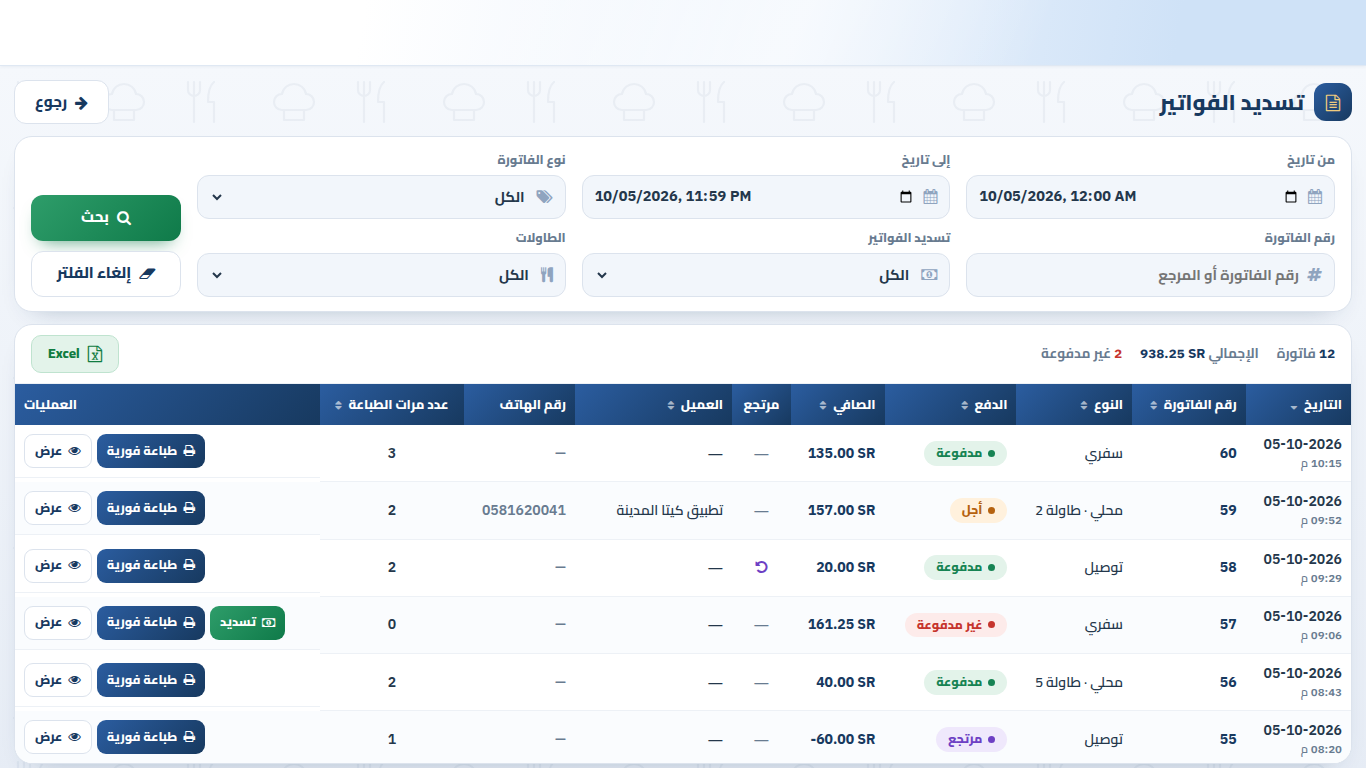
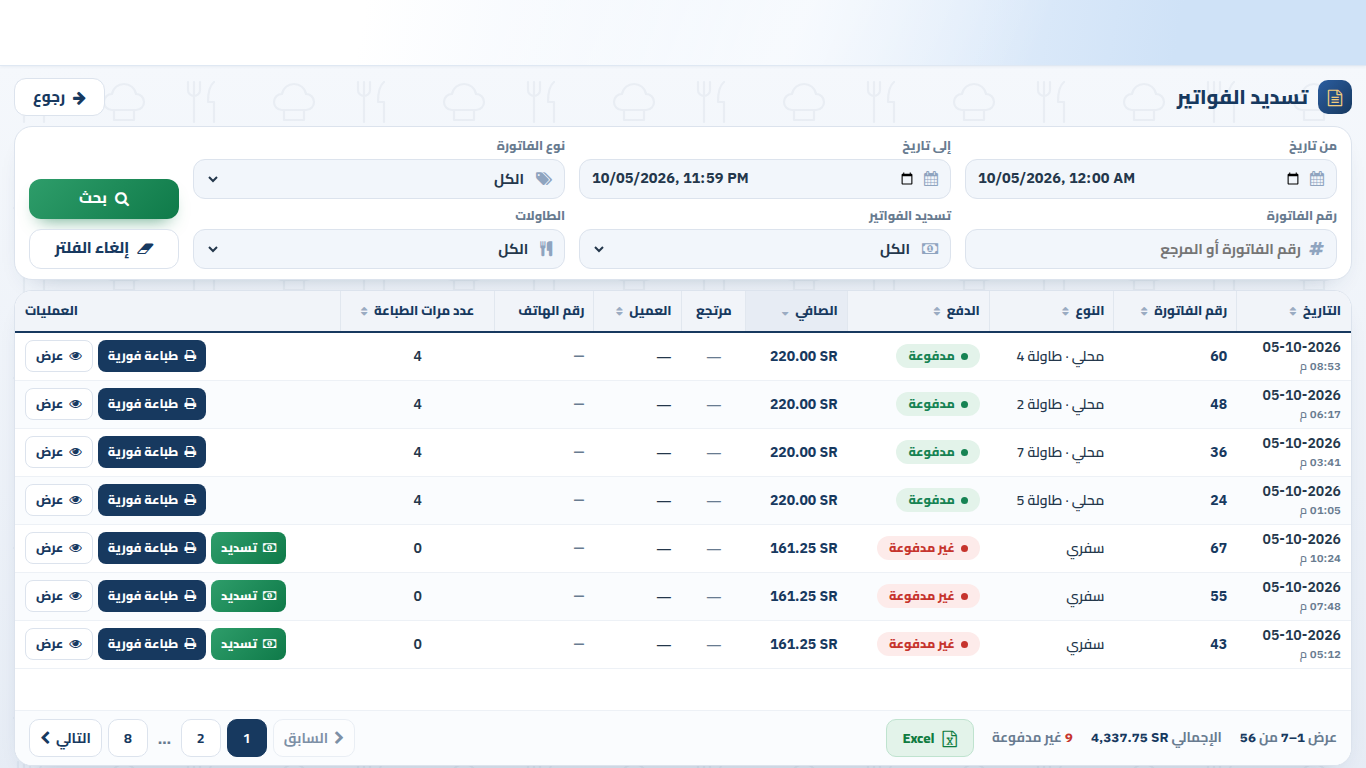
تسديد الفواتير: formal table header, pages that fit the screen
- Header: one flat light-grey band with a navy rule under it and navy
  text, instead of a gradient painted per cell (it read as stripes).
  Print button flat navy to match.
- Paging instead of a scrolling list: the page size is however many
  48px rows fit the table's space, measured on mount and on resize
  (ResizeObserver) — 7 rows on a 1366x768 till, 13 on 1920x1080, 6 on
  1024. Pager: previous / first, last and neighbours with gaps / next,
  "عرض 1–7 من 56". Search and sort go back to page 1; Excel still
  exports every loaded row.
- The count / total / Excel bar moves into the pager footer and the
  header and filters are tightened, so more rows fit per page.
- Row actions sit in an inner flex wrapper so the cell stays a table
  cell and buttons keep their spacing.

Claude-Session: https://claude.ai/code/session_01Lnz3E3QEWwCq9W3i1o8rQR

diff --git a/addons/hosny_pos_payment/static/src/css/invoices_screen.css b/addons/hosny_pos_payment/static/src/css/invoices_screen.css
@@ -7,6 +7,7 @@
    ===================================================================== */
 
 :is(#hs,.pos) .hi-screen {
+    /* layout is compact on purpose: every row saved is a row per page */
     --hi-navy-a: #2B5DA0;
     --hi-navy-b: #17395F;
     --hi-ink: #17395F;
@@ -21,9 +22,9 @@
     --hi-font: "Cairo", "IBM Plex Sans Arabic", system-ui, sans-serif;
 
     /*rtl:ignore*/direction: rtl;
-    display: flex; flex-direction: column; gap: 12px;
+    display: flex; flex-direction: column; gap: 10px;
     block-size: 100%;
-    padding: 14px;
+    padding: 12px 14px;
     overflow: hidden;
     color: var(--hi-text);
     font-family: var(--hi-font);
@@ -50,15 +51,15 @@
 
 /* ── الرأس ── */
 :is(#hs,.pos) .hi-head { display: flex; align-items: center; justify-content: space-between; gap: 12px; }
-:is(#hs,.pos) .hi-head h1 { margin: 0; display: flex; align-items: center; gap: 10px; font-size: 22px; font-weight: 800; color: var(--hi-ink); }
+:is(#hs,.pos) .hi-head h1 { margin: 0; display: flex; align-items: center; gap: 10px; font-size: 20px; font-weight: 800; color: var(--hi-ink); }
 :is(#hs,.pos) .hi-head h1 .fa {
-    display: grid; place-items: center; inline-size: 38px; block-size: 38px; border-radius: 12px;
+    display: grid; place-items: center; inline-size: 34px; block-size: 34px; border-radius: 10px;
     font-size: 17px; color: var(--hi-gold);
     /*rtl:ignore*/background: linear-gradient(135deg, var(--hi-navy-a), var(--hi-navy-b));
 }
 :is(#hs,.pos) .hi-back {
     display: inline-flex; align-items: center; gap: 8px;
-    min-block-size: 44px; padding: 0 20px !important;
+    min-block-size: 38px; padding: 0 18px !important;
     border: 1px solid var(--hi-line) !important; border-radius: 12px !important;
     background: #FFFFFF !important; color: var(--hi-ink) !important; box-shadow: none !important;
     font-size: 15px !important; font-weight: 800 !important;
@@ -70,15 +71,15 @@
     display: grid;
     grid-template-columns: repeat(3, minmax(0, 1fr)) auto;
     grid-template-rows: auto auto;
-    gap: 10px 16px;
+    gap: 8px 14px;
     margin: 0;
-    padding: 14px 16px;
+    padding: 10px 14px;
 }
-:is(#hs,.pos) .hi-field { display: flex; flex-direction: column; gap: 5px; margin: 0; min-width: 0; }
+:is(#hs,.pos) .hi-field { display: flex; flex-direction: column; gap: 3px; margin: 0; min-width: 0; }
 :is(#hs,.pos) .hi-field > span { font-size: 12.5px; font-weight: 800; color: var(--hi-muted); }
 :is(#hs,.pos) .hi-input {
     display: flex; align-items: center; gap: 8px;
-    min-block-size: 44px;
+    min-block-size: 40px;
     padding: 0 12px;
     border: 1px solid var(--hi-line);
     border-radius: 12px;
@@ -90,7 +91,7 @@
 :is(#hs,.pos) .hi-input input,
 :is(#hs,.pos) .hi-input select {
     flex: 1 1 auto; min-width: 0;
-    block-size: 42px;
+    block-size: 38px;
     padding: 0 !important;
     border: 0 !important; outline: 0 !important; box-shadow: none !important;
     background: transparent !important;
@@ -105,7 +106,7 @@
 }
 :is(#hs,.pos) .hi-btn {
     display: flex; align-items: center; justify-content: center; gap: 8px;
-    min-block-size: 46px;
+    min-block-size: 40px;
     border: 0 !important; border-radius: 12px !important;
     color: #FFFFFF !important;
     font-size: 15px !important; font-weight: 800 !important;
@@ -139,19 +140,25 @@
     font-size: 14px !important; font-weight: 800 !important;
 }
 :is(#hs,.pos) .hi-excel .fa { font-size: 17px; }
-:is(#hs,.pos) .hi-table-wrap { flex: 1 1 auto; overflow: auto; min-block-size: 0; position: relative; }
+:is(#hs,.pos) .hi-table-wrap { flex: 1 1 auto; overflow-x: auto; overflow-y: hidden; min-block-size: 0; position: relative; }
+:is(#hs,.pos) .hi-table tbody tr { block-size: 48px; }
 :is(#hs,.pos) .hi-table { inline-size: 100%; border-collapse: separate; border-spacing: 0; font-size: 14px; }
 :is(#hs,.pos) .hi-table thead th {
     position: sticky; inset-block-start: 0; z-index: 1;
-    padding: 11px 9px;
-    /*rtl:ignore*/background: linear-gradient(135deg, var(--hi-navy-a), var(--hi-navy-b));
-    color: #FFFFFF;
+    padding: 0 10px;
+    block-size: 42px;
+    background: #F1F4F9;
+    border-bottom: 2px solid var(--hi-navy-b);
+    color: var(--hi-ink);
     font-size: 13px; font-weight: 800; text-align: start; white-space: nowrap;
     cursor: pointer; user-select: none;
 }
-:is(#hs,.pos) .hi-table thead th .fa { margin-inline-start: 4px; font-size: 11px; opacity: .6; }
+:is(#hs,.pos) .hi-table thead th .fa { margin-inline-start: 4px; font-size: 11px; color: #9AABC2; }
+:is(#hs,.pos) .hi-table thead th:hover { background: #E7ECF4; }
+:is(#hs,.pos) .hi-table thead th + th { box-shadow: inset -1px 0 0 #E1E7EF; }
 :is(#hs,.pos) .hi-table tbody td {
-    padding: 9px 9px;
+    block-size: 48px;
+    padding: 0 10px;
     border-bottom: 1px solid #EDF1F6;
     color: var(--hi-text); font-weight: 600;
     white-space: nowrap; vertical-align: middle;
@@ -165,7 +172,7 @@
 :is(#hs,.pos) .hi-table .is-center { text-align: center; }
 :is(#hs,.pos) .hi-table .is-clip { max-inline-size: 150px; overflow: hidden; text-overflow: ellipsis; }
 :is(#hs,.pos) .hi-table .is-ops { text-align: end; }
-:is(#hs,.pos) .hi-table td.is-ops { display: flex; justify-content: flex-end; gap: 5px; }
+:is(#hs,.pos) .hi-ops { display: flex; align-items: center; justify-content: flex-end; gap: 5px; }
 /* below 1500px the time folds under the date */
 :is(#hs,.pos) .hi-date-time { display: none; font-size: 11.5px; color: var(--hi-muted); }
 @media (max-width: 1500px) {
@@ -191,14 +198,12 @@
 :is(#hs,.pos) .hi-refunded { color: #6D3FC4; }
 :is(#hs,.pos) .hi-op {
     display: inline-flex; align-items: center; gap: 6px;
-    min-block-size: 34px; padding: 0 10px !important;
-    border: 0 !important; border-radius: 9px !important;
+    block-size: 32px; min-block-size: 32px; padding: 0 10px !important;
+    border: 0 !important; border-radius: 8px !important;
     color: #FFFFFF !important; box-shadow: none !important;
     font-size: 12.5px !important; font-weight: 800 !important; white-space: nowrap;
 }
-:is(#hs,.pos) .hi-op.is-print, :is(#hs,.pos) .hi-op.is-view {
-    /*rtl:ignore*/background: linear-gradient(135deg, var(--hi-navy-a), var(--hi-navy-b)) !important;
-}
+:is(#hs,.pos) .hi-op.is-print { background: var(--hi-navy-b) !important; }
 :is(#hs,.pos) .hi-op.is-view { background: #FFFFFF !important; color: var(--hi-ink) !important; border: 1px solid var(--hi-line) !important; }
 :is(#hs,.pos) .hi-op.is-pay {
     /*rtl:ignore*/background: linear-gradient(135deg, var(--hi-mint-a), var(--hi-mint-b)) !important;
@@ -210,6 +215,31 @@
     font-size: 15px; font-weight: 700; color: var(--hi-muted);
 }
 :is(#hs,.pos) .hi-empty .fa { font-size: 34px; color: #B9C7D8; }
+
+:is(#hs,.pos) .hi-pager {
+    display: flex; align-items: center; justify-content: space-between; gap: 12px;
+    flex-wrap: wrap;
+    padding: 8px 14px;
+    border-top: 1px solid #EDF1F6;
+    background: #FAFCFE;
+}
+:is(#hs,.pos) .hi-pager-info { font-size: 13.5px; font-weight: 700; color: var(--hi-muted); }
+:is(#hs,.pos) .hi-pager-info b { font-family: var(--hi-num); color: var(--hi-ink); }
+:is(#hs,.pos) .hi-pager-nav { display: flex; align-items: center; gap: 6px; }
+:is(#hs,.pos) .hi-page {
+    min-inline-size: 40px; min-block-size: 38px;
+    padding: 0 10px !important;
+    border: 1px solid var(--hi-line) !important; border-radius: 10px !important;
+    background: #FFFFFF !important; color: var(--hi-ink) !important; box-shadow: none !important;
+    font-family: var(--hi-num) !important; font-size: 14px !important; font-weight: 700 !important;
+}
+:is(#hs,.pos) .hi-page.is-arrow { font-family: var(--hi-font) !important; display: inline-flex; align-items: center; gap: 6px; }
+:is(#hs,.pos) .hi-page:hover:not(:disabled) { background: var(--hi-soft) !important; }
+:is(#hs,.pos) .hi-page.is-current {
+    border-color: var(--hi-navy-b) !important;
+    background: var(--hi-navy-b) !important; color: #FFFFFF !important;
+}
+:is(#hs,.pos) .hi-page-gap { padding: 0 4px; color: var(--hi-muted); font-weight: 800; }
 
 @media (max-width: 1180px) {
     :is(#hs,.pos) .hi-filters { grid-template-columns: repeat(3, minmax(0, 1fr)); grid-template-rows: none; }

diff --git a/addons/hosny_pos_payment/static/src/js/invoices_screen.js b/addons/hosny_pos_payment/static/src/js/invoices_screen.js
@@ -9,7 +9,7 @@
  * العمليات تحمّل الطلب من الخادم بنفس طريقة شاشة الطلبات في أودو
  * (loadServerOrders)، إلا إن كان مفتوحاً على هذا الجهاز فيُستخدم كما هو.
  */
-import { onMounted, useState } from "@odoo/owl";
+import { onMounted, onWillUnmount, useRef, useState } from "@odoo/owl";
 import { patch } from "@web/core/utils/patch";
 import { deserializeDateTime, serializeDateTime } from "@web/core/l10n/dates";
 import { HosnyPaymentOrdersScreen } from "@hosny_pos_controls/js/payment_orders_screen";
@@ -58,8 +58,22 @@ patch(HosnyPaymentOrdersScreen.prototype, {
             loading: false,
             busyId: null,
             sort: { key: "date", desc: true },
+            page: 1,
+            pageSize: 10,
         });
-        onMounted(() => this.invSearch());
+        // صفحة الجدول = ما يتسع له مكانه بلا تمرير، ويُعاد حسابها مع تغيّر الحجم
+        this.invWrap = useRef("invWrap");
+        let observer;
+        onMounted(() => {
+            this.invSearch();
+            const el = this.invWrap.el;
+            if (el && window.ResizeObserver) {
+                observer = new ResizeObserver(() => this.invFitPage());
+                observer.observe(el);
+            }
+            this.invFitPage();
+        });
+        onWillUnmount(() => observer?.disconnect());
     },
 
     // ── الجلب ───────────────────────────────────────────────────────────
@@ -90,11 +104,56 @@ patch(HosnyPaymentOrdersScreen.prototype, {
             this.inv.tables = result.tables;
             this.inv.totalCount = result.total_count;
             this.inv.limit = result.limit;
+            this.inv.page = 1;
         } catch {
             this.pos.notification?.add("تعذّر جلب الفواتير — تأكد من الاتصال بالسيرفر.", { type: "warning" });
         } finally {
             this.inv.loading = false;
         }
+    },
+    /** كم صفاً يتسع بلا تمرير: ارتفاع المكان ناقص رأس الجدول ÷ ارتفاع الصف. */
+    invFitPage() {
+        const el = this.invWrap.el;
+        if (!el) {
+            return;
+        }
+        const head = el.querySelector("thead")?.offsetHeight || 44;
+        const row = el.querySelector("tbody tr")?.offsetHeight || 52;
+        const size = Math.max(3, Math.floor((el.clientHeight - head) / row));
+        if (size !== this.inv.pageSize) {
+            this.inv.pageSize = size;
+            this.inv.page = Math.min(this.inv.page, Math.max(1, Math.ceil(this.inv.rows.length / size)));
+        }
+    },
+    get invPageCount() {
+        return Math.max(1, Math.ceil(this.inv.rows.length / this.inv.pageSize));
+    },
+    get invPageRows() {
+        const start = (this.inv.page - 1) * this.inv.pageSize;
+        return this.invRows.slice(start, start + this.inv.pageSize);
+    },
+    get invPageRange() {
+        const total = this.inv.rows.length;
+        const start = total ? (this.inv.page - 1) * this.inv.pageSize + 1 : 0;
+        return { start, end: Math.min(total, this.inv.page * this.inv.pageSize), total };
+    },
+    /** أرقام الصفحات: الأولى والأخيرة وما حول الحالية، وبينها «…». */
+    get invPageButtons() {
+        const count = this.invPageCount;
+        const current = this.inv.page;
+        const pages = new Set([1, count, current - 1, current, current + 1]);
+        const list = [...pages].filter((p) => p >= 1 && p <= count).sort((a, b) => a - b);
+        const out = [];
+        list.forEach((p, i) => {
+            if (i && p - list[i - 1] > 1) {
+                out.push({ key: `gap-${p}`, gap: true });
+            }
+            out.push({ key: `p-${p}`, page: p });
+        });
+        return out;
+    },
+    invGoPage(page) {
+        this.inv.page = Math.min(Math.max(1, page), this.invPageCount);
     },
     invReset() {
         this.inv.filters = defaultFilters();
@@ -142,6 +201,7 @@ patch(HosnyPaymentOrdersScreen.prototype, {
     invSortBy(key) {
         const sort = this.inv.sort;
         this.inv.sort = { key, desc: sort.key === key ? !sort.desc : true };
+        this.inv.page = 1;
     },
     invSortIcon(key) {
         const sort = this.inv.sort;
